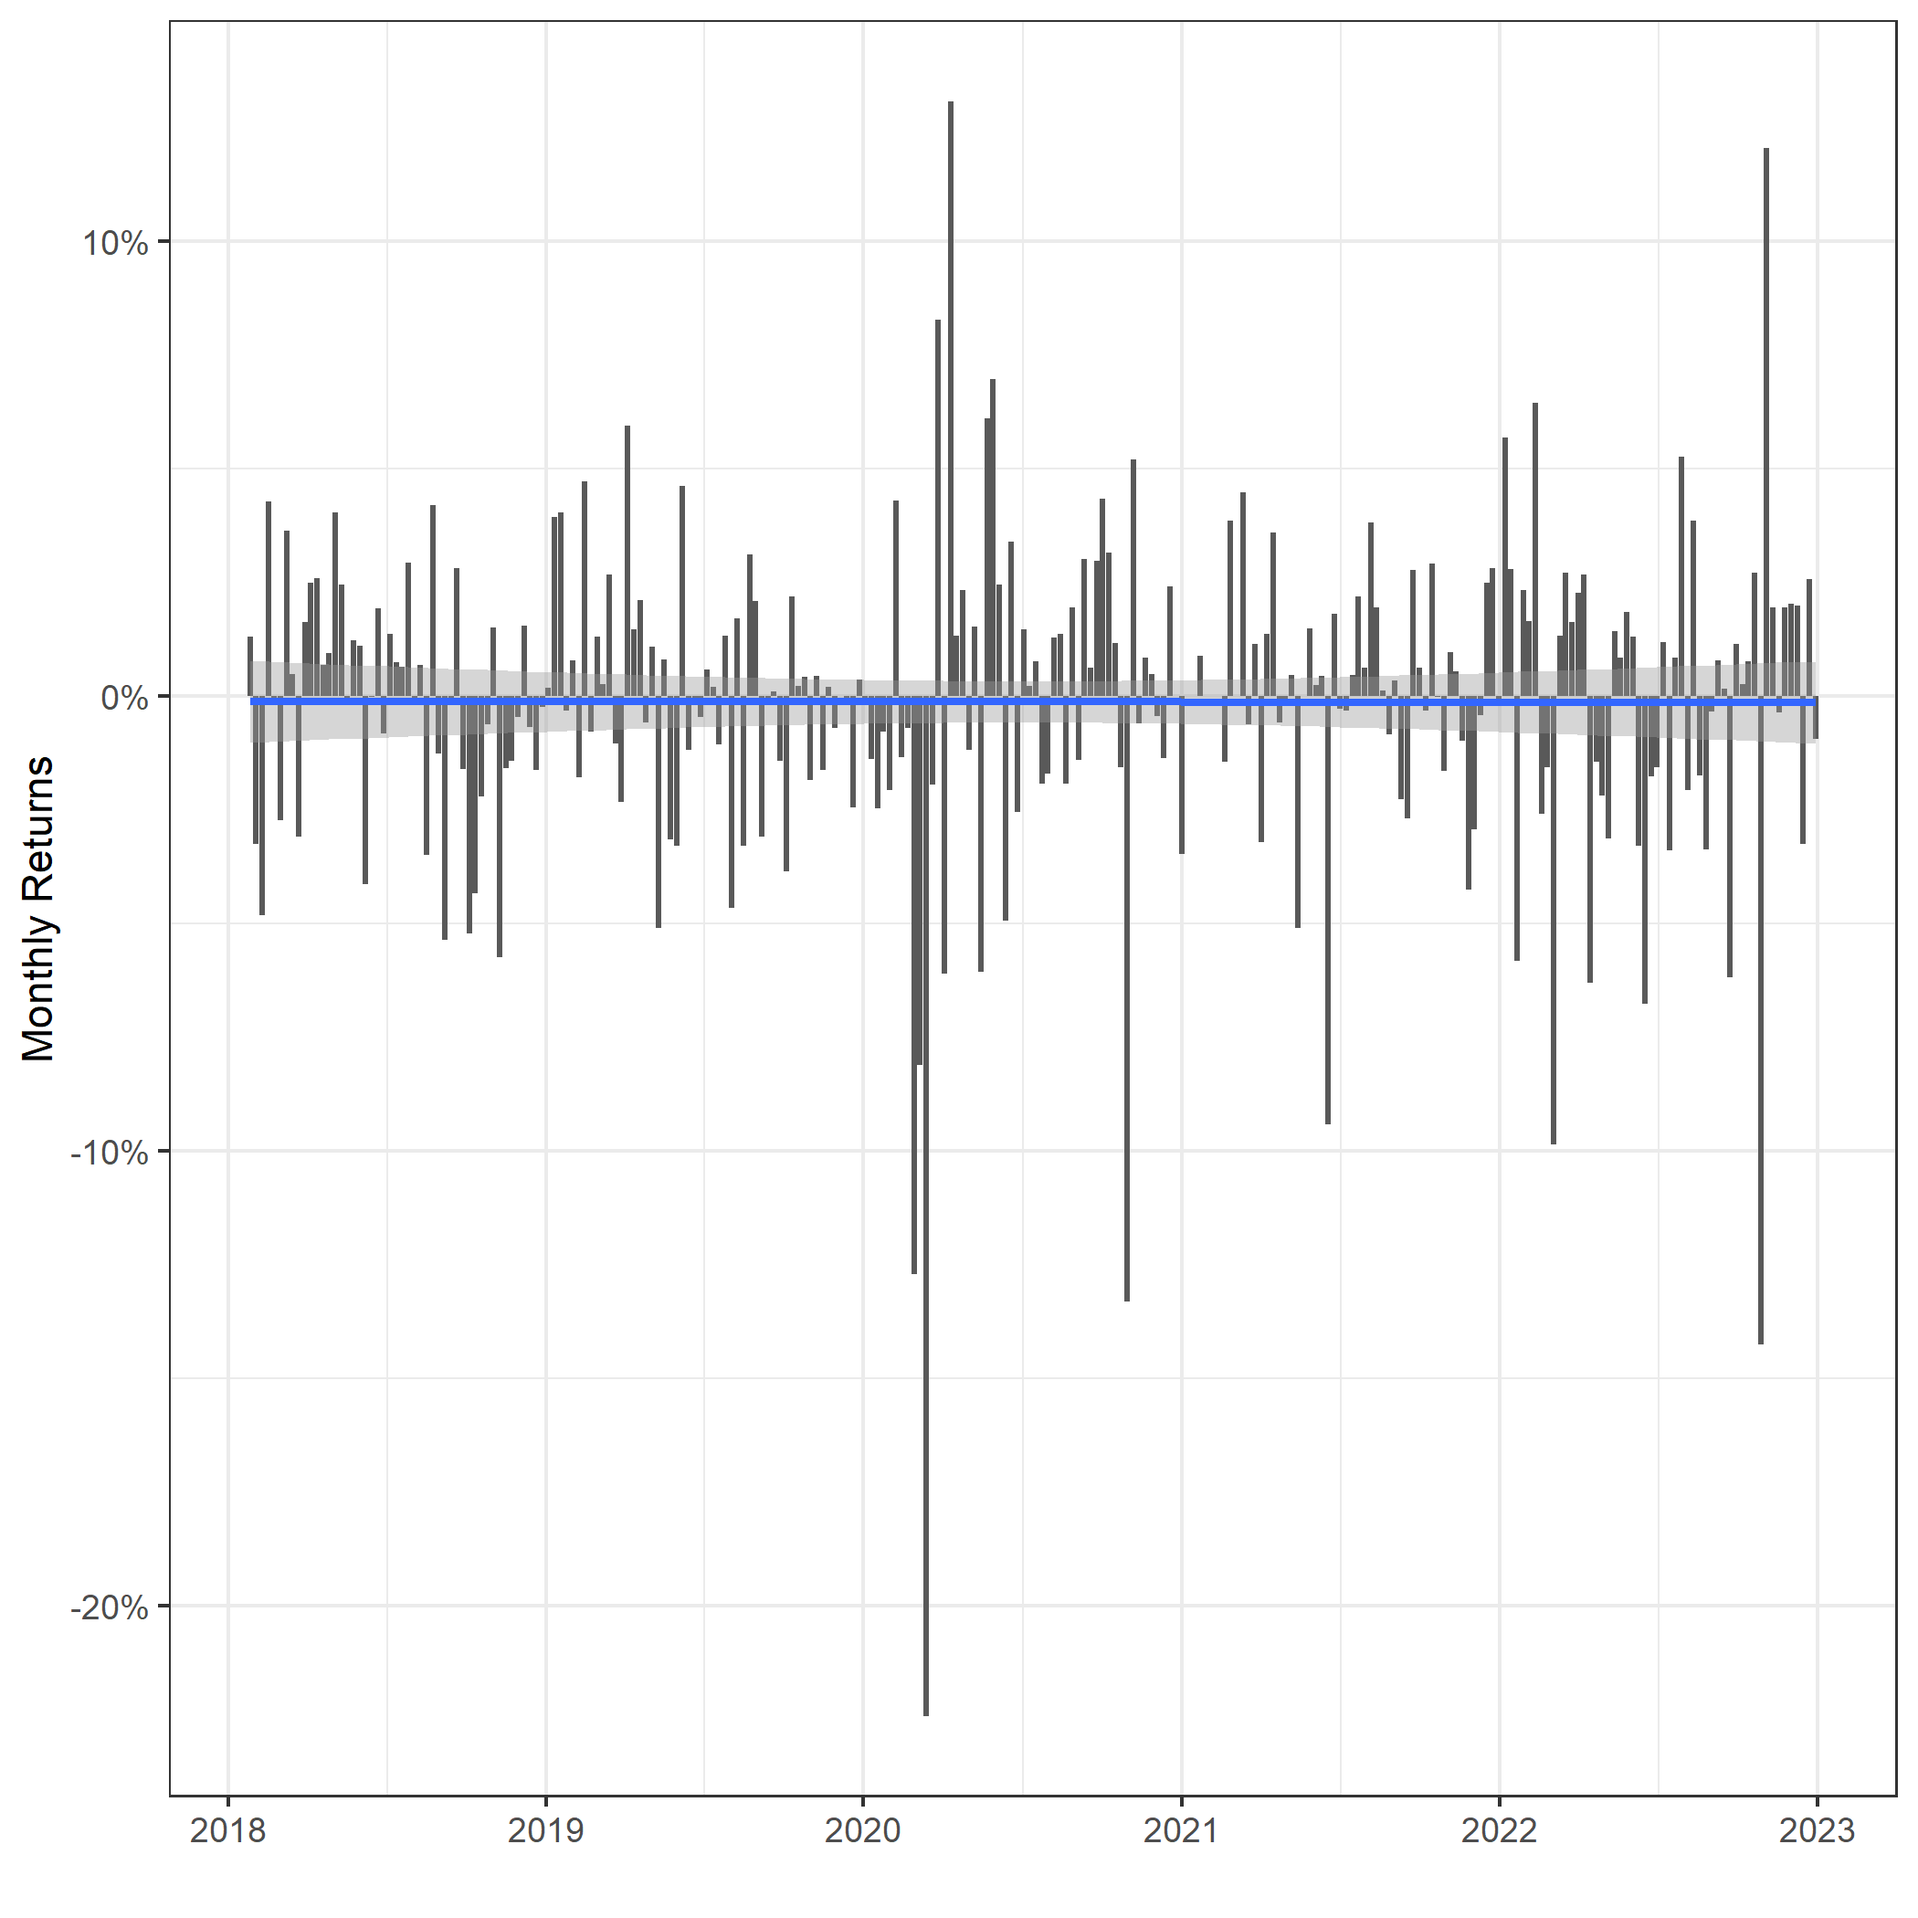
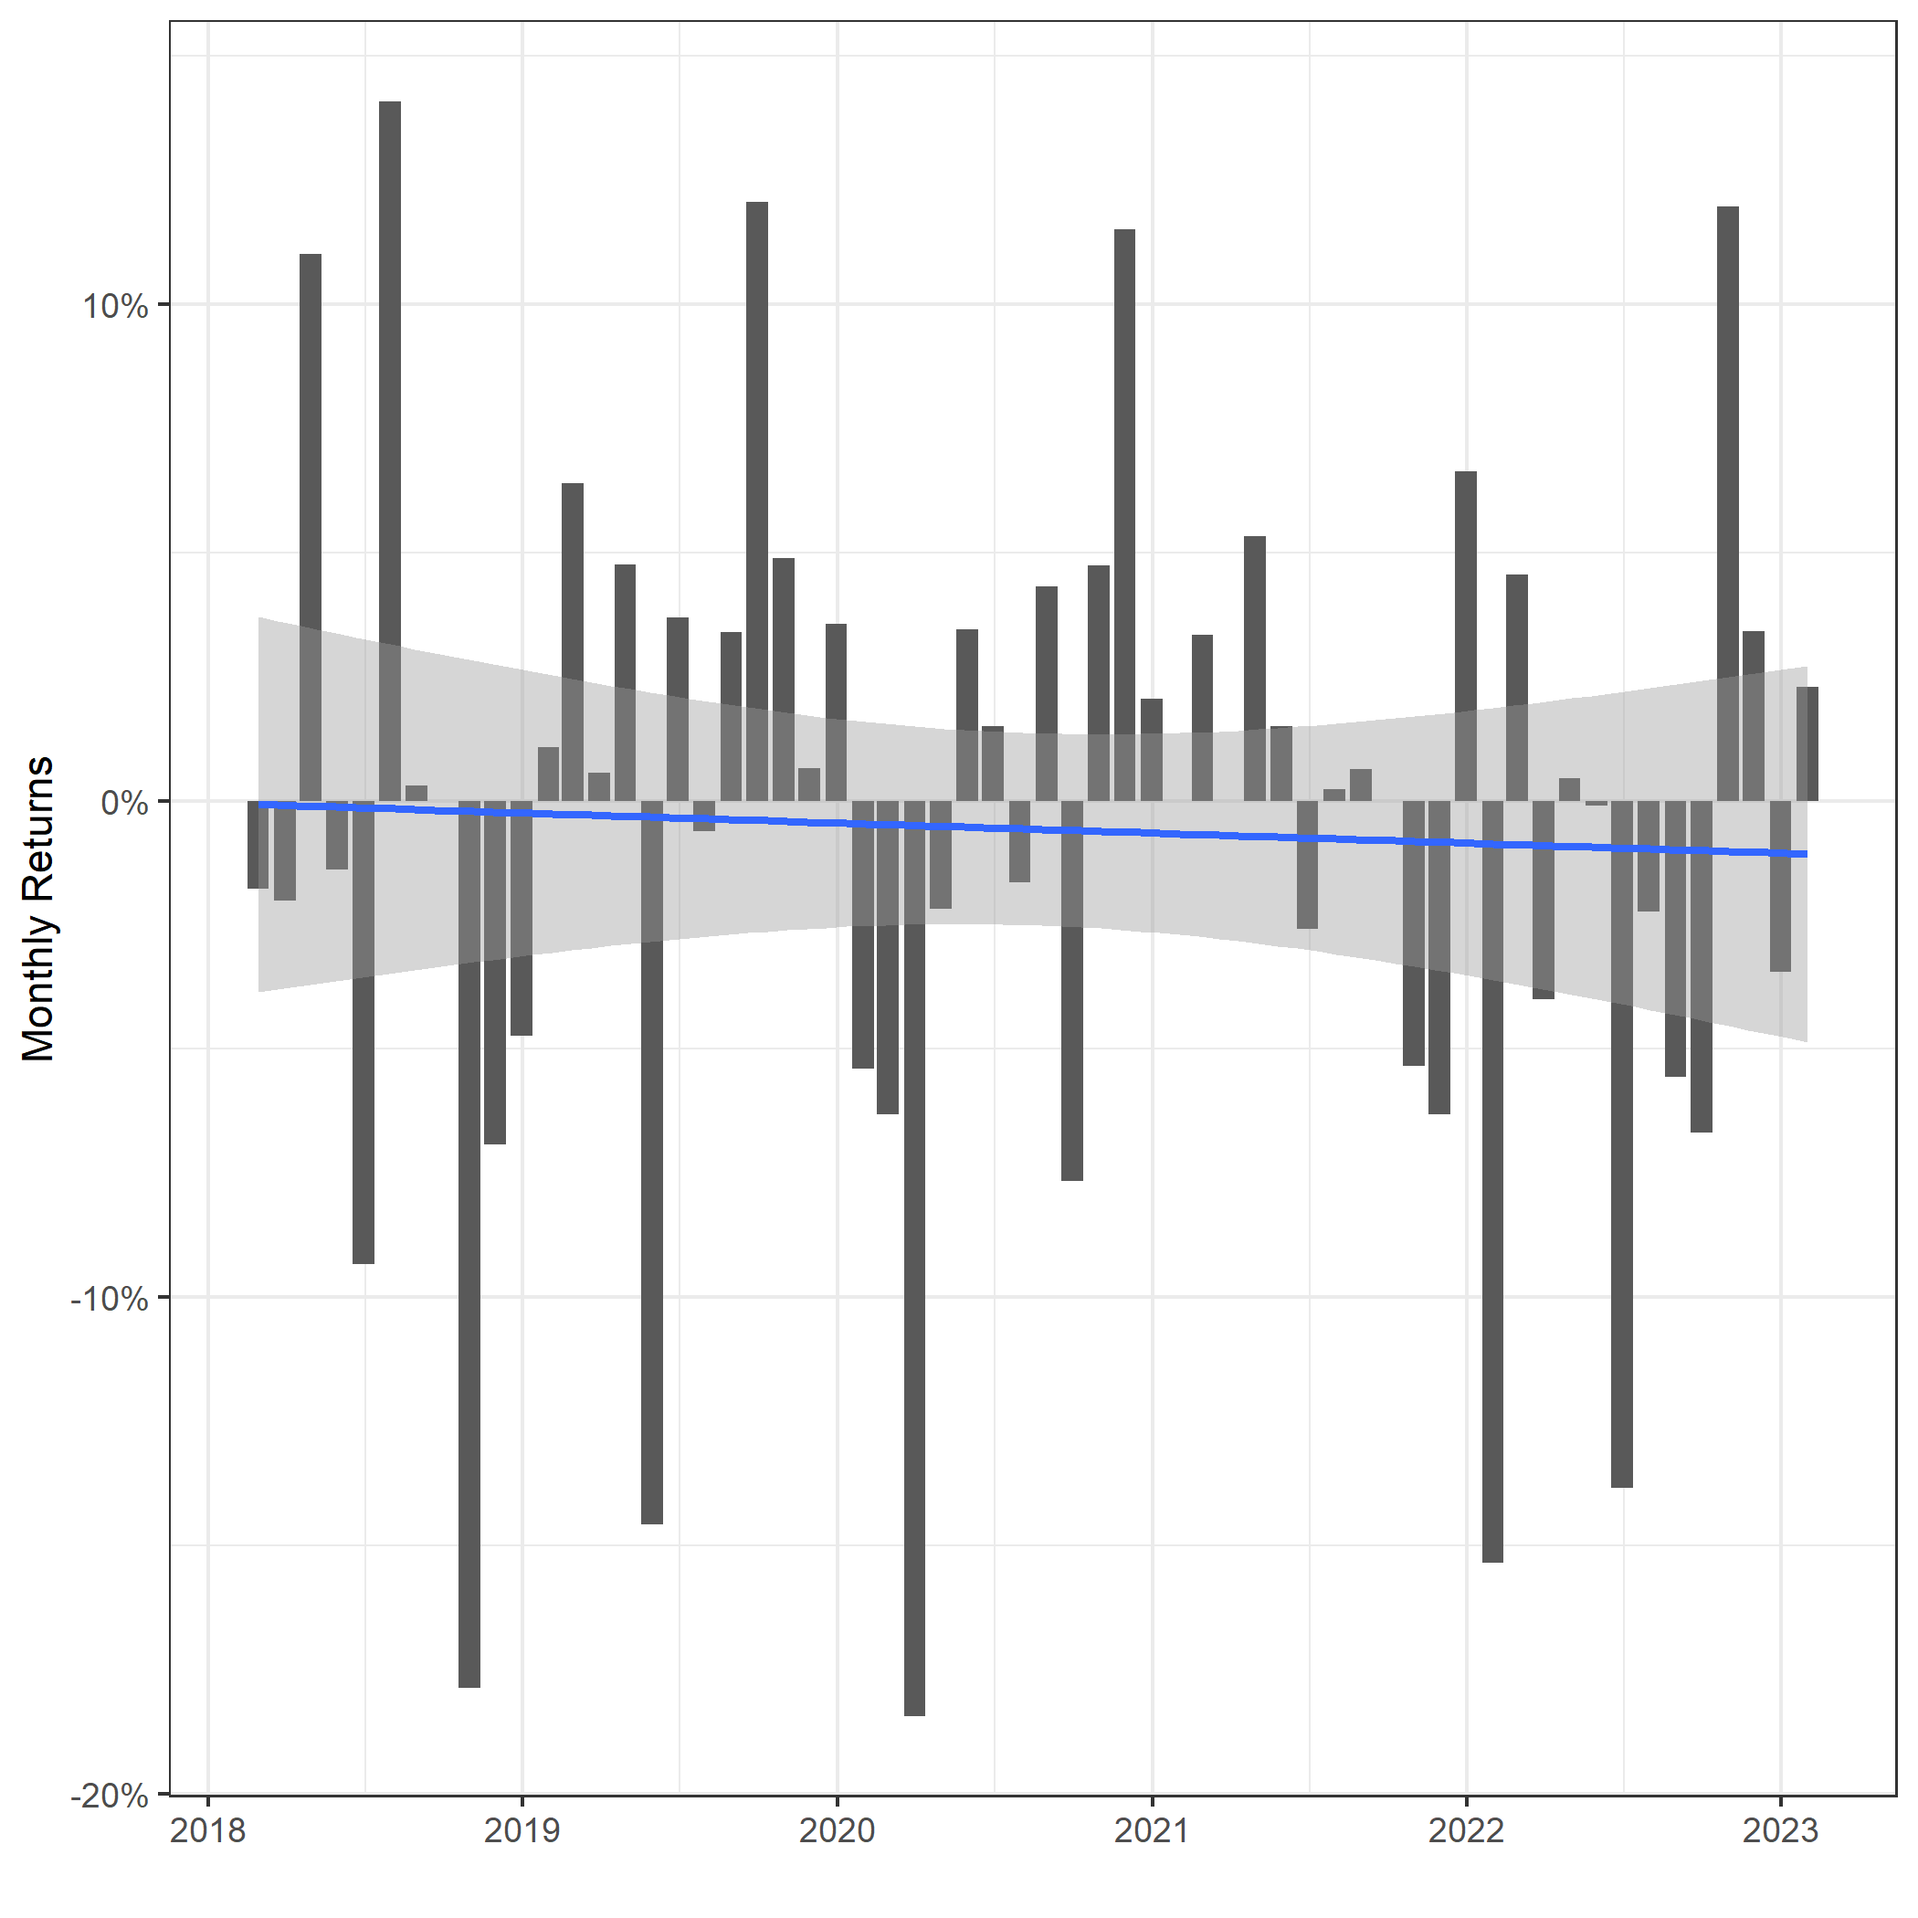
Lots of figures

diff --git a/Projekt/1.Figures analysis/alpha_positive.tex b/Projekt/1.Figures analysis/alpha_positive.tex
@@ -1,15 +1,15 @@
 % latex table generated in R 4.2.2 by xtable 1.8-4 package
-% Tue Mar 28 10:30:34 2023
+% Tue Apr  4 16:45:42 2023
 \begin{table}[ht]
 \centering
 \begin{tabular}{lrrrr}
   \hline
 model & Alpha & t & p & return \\ 
   \hline
-1M & 0.0013 & 0.7278 & 0.4674 & 0.0021 \\ 
-  3M & 0.0016 & 0.9921 & 0.3221 & 0.0023 \\ 
-  6M & 0.0020 & 1.3237 & 0.1868 & 0.0026 \\ 
-  12M & 0.0023 & 1.5789 & 0.1156 & 0.0028 \\ 
+1M & 0.0128 & 3.3950 & 0.0013 & 18.3199 \\ 
+  4M & 0.0105 & 3.4923 & 0.0009 & 15.8520 \\ 
+  8M & 0.0101 & 3.6196 & 0.0006 & 15.2374 \\ 
+  12M & 0.0107 & 4.3457 & 0.0001 & 16.1363 \\ 
    \hline
 \end{tabular}
 \end{table}
